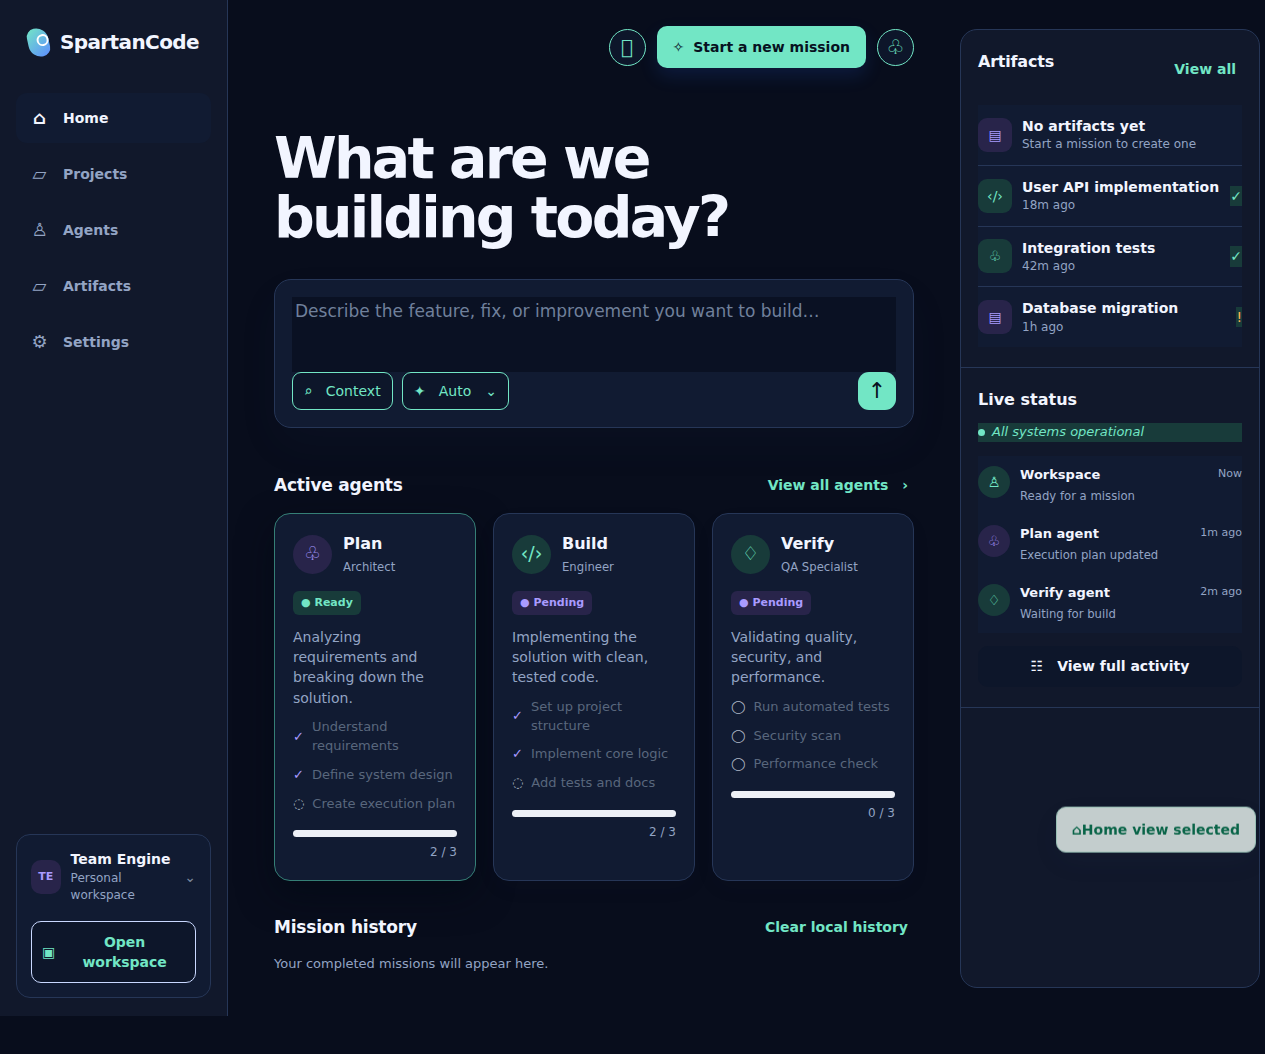
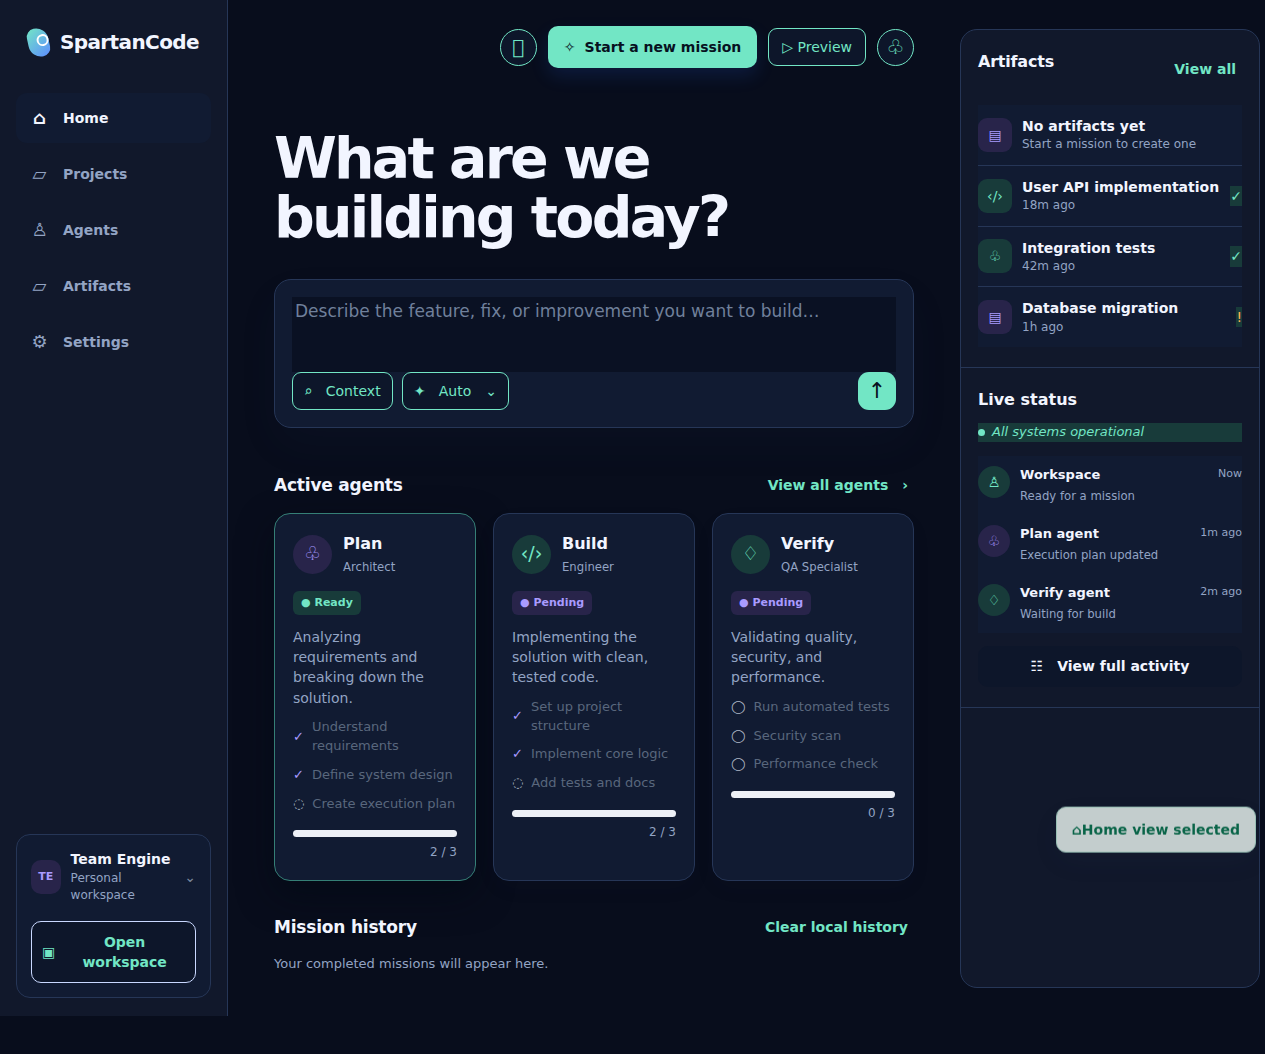
Refresh SpartanCode screenshot gallery and mobile scope

Changed region(s): [[0.4008, 0.0, 0.7091, 0.0911]]

diff --git a/README.md b/README.md
@@ -12,7 +12,7 @@ platform secure store and optional biometrics.
 
 Turn an idea into a verified software change with a calm, focused command
 center for missions, custom agents, local models, artifacts, and review. The
-Spartan IDE theme keeps the workspace dark, readable, and purpose-built for
+SpartanCode theme keeps the workspace dark, readable, and purpose-built for
 serious engineering on desktop or Android.
 
 Desktop project previews open local development servers in SpartanCode’s
@@ -53,13 +53,19 @@ Explore the workspace surfaces:
 
 ![Settings governance and extensibility](docs/assets/desktop-menu-gallery/desktop-settings-governance.png)
 
+| Collaboration settings | Marketplace settings | Preview dialog |
+| ---------------------- | -------------------- | -------------- |
+| ![Collaboration settings](docs/assets/desktop-menu-gallery/desktop-settings-collaboration.png) | ![Marketplace settings](docs/assets/desktop-menu-gallery/desktop-settings-marketplace.png) | ![Preview dialog](docs/assets/desktop-menu-gallery/desktop-preview-dialog.png) |
+
 | Mission composer                                                                  | Android command center                                            | Android mission queue                                             |
 | --------------------------------------------------------------------------------- | ----------------------------------------------------------------- | ----------------------------------------------------------------- |
 | ![Mission composer](docs/assets/desktop-menu-gallery/desktop-composer-filled.png) | ![Android command center](android/screenshots/command-center.png) | ![Android mission queued](android/screenshots/mission-queued.png) |
 
 The Android command center puts offline mission queueing, optional bridge
-connection, approval visibility, and the mobile Spartan IDE experience on one
-screen. The queued-mission view shows the handoff from idea to tracked work;
+connection, approval visibility, and the mobile SpartanCode experience on one
+screen. A phone-only user can create a complete project for any supported
+device or operating system, run available checks, package it, and prepare
+release evidence; a desktop, server, or bridge is optional. The queued-mission view shows the handoff from idea to tracked work;
 the companion also includes voice input, local collaboration, full Hugging Face
 model discovery, device diagnostics, and remote planning controls.
 

diff --git a/android/ABOUT.md b/android/ABOUT.md
@@ -4,13 +4,16 @@
 
 SpartanCode turns software ideas into visible, reviewable progress. It is a
 local-first command center for missions, agent teams, artifacts, approvals,
-and verification, wrapped in a distinctive dark Spartan IDE theme designed to
+and verification, wrapped in a distinctive dark SpartanCode theme designed to
 keep attention on the work.
 
 ### Built for the way real projects move
 
 - **Start with an outcome.** Queue a mission from the desktop or Android app,
   even when offline.
+- **Build from a phone.** Create projects for any supported device or operating
+  system, run available checks, package the result, and prepare release evidence
+  without requiring a desktop, server, or bridge.
 - **Let the team work in stages.** Research, implementation, verification,
   and synchronization are represented as inspectable agent roles.
 - **Review what was produced.** Artifacts, activity, approvals, and audit
@@ -23,7 +26,7 @@ keep attention on the work.
 ## Interface gallery
 
 The following gallery shows every primary desktop menu and the assistant
-surface while preserving the Spartan IDE color system.
+surface while preserving the SpartanCode color system.
 
 ![Command center](../docs/assets/desktop-menu-gallery/desktop-home.png)
 
@@ -36,6 +39,12 @@ surface while preserving the Spartan IDE color system.
 ![Workspace settings](../docs/assets/desktop-menu-gallery/desktop-settings.png)
 
 ![Settings governance and extensibility](../docs/assets/desktop-menu-gallery/desktop-settings-governance.png)
+
+![Collaboration settings](../docs/assets/desktop-menu-gallery/desktop-settings-collaboration.png)
+
+![Marketplace settings](../docs/assets/desktop-menu-gallery/desktop-settings-marketplace.png)
+
+![Preview dialog](../docs/assets/desktop-menu-gallery/desktop-preview-dialog.png)
 
 ![Spartan assistant](../docs/assets/desktop-menu-gallery/desktop-menu-assistant.png)
 

diff --git a/docs/ROADMAP_STATUS.md b/docs/ROADMAP_STATUS.md
@@ -217,6 +217,11 @@ current Implemented/Partial/Open counts.
 
 ## Release gates still requiring stronger evidence
 
+- Mobile-only release parity remains a first-class gate: an Android-only user
+  must be able to create a project targeting any supported device or operating
+  system, run the available verification/build steps, package it, and prepare
+  release evidence without installing the desktop app, a server, or a bridge.
+
 - MLC Chat/PocketPal provider-specific packages and physical Android execution
   remain release-environment gates. Android now has a real llama.cpp native
   adapter when a prebuilt binary and existing GGUF model are supplied; the
